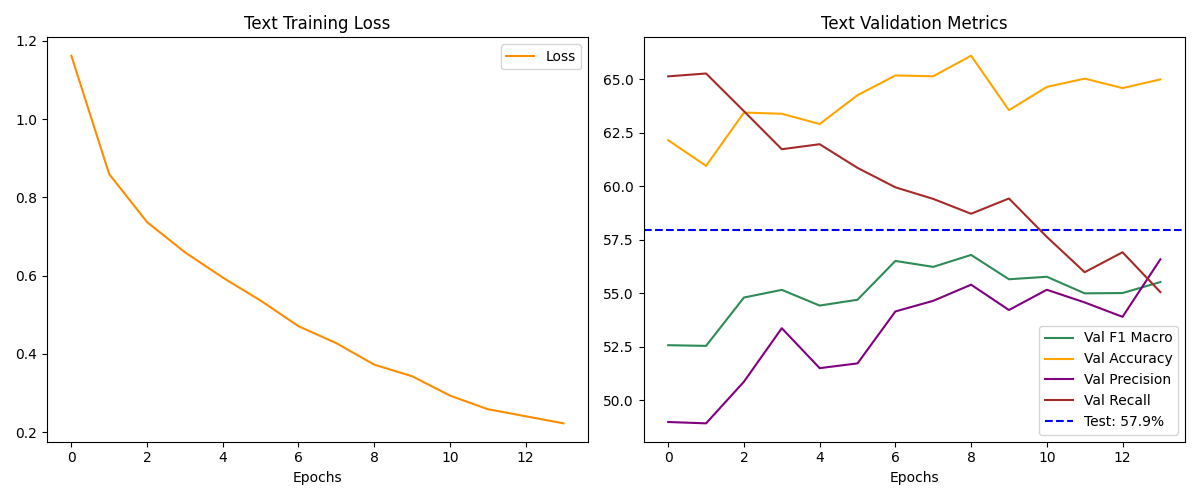
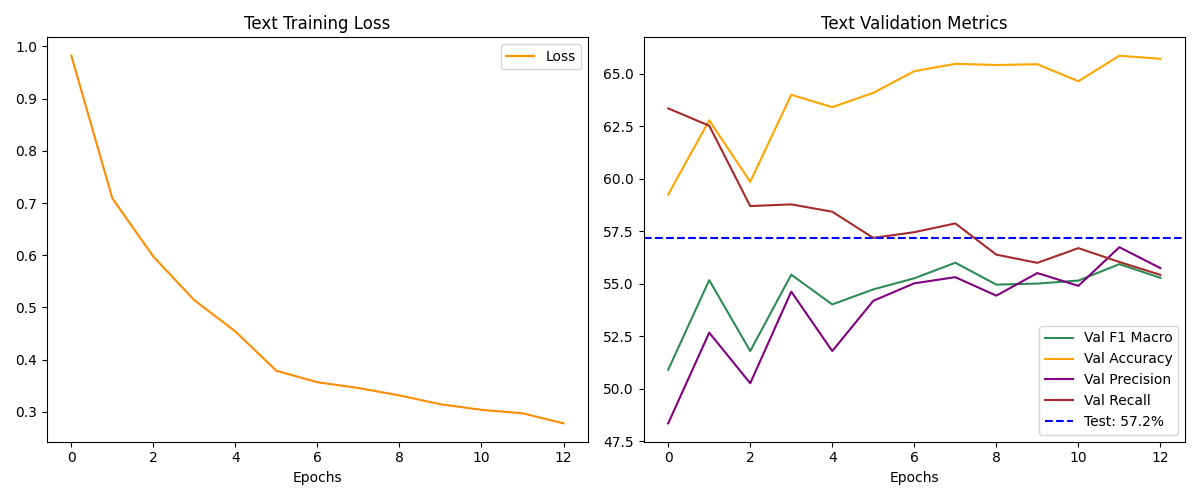
Final Text Model

diff --git a/src/model_trainers/final_train_text.py b/src/model_trainers/final_train_text.py
@@ -3,7 +3,6 @@ import torch.nn as nn
 import torch.optim as optim
 from torch.amp.autocast_mode import autocast
 from torch.amp.grad_scaler import GradScaler
-from transformers import get_linear_schedule_with_warmup
 from sklearn.metrics import f1_score, accuracy_score, precision_score, recall_score
 import json
 import sys
@@ -59,7 +58,7 @@ def train_final():
         num_classes=7, 
         hidden_dim=int(best_params['best_hidden_units']), 
         dropout=best_params['best_dropout'], 
-        pooling_mode=best_params['best_pooling_mode']
+        pooling_mode="mean"
     ).to(DEVICE)
 
     # Freeze RoBERTa initially
@@ -71,25 +70,22 @@ def train_final():
         param.requires_grad = True
 
     lr = 10 ** best_params['best_learning_rate']
+    if best_params['best_learning_rate_roberta'] is not None:
+        lr_r = 10 ** best_params['best_learning_rate_roberta']
+    else:
+        lr_r = lr
     optimizer = optim.AdamW([
         {'params': model.lstm.parameters(), 'lr': lr},
         {'params': model.classifier.parameters(), 'lr': lr},
-        {'params': model.roberta.encoder.layer[10:12].parameters(), 'lr': lr},
-        {'params': model.roberta.pooler.parameters(), 'lr': lr},
-        
-        # Earlier RoBERTa Layers (We give them a smaller LR since they were not "seen" by the APSO and to prevent catastrophic forgetting)
-        {'params': model.roberta.encoder.layer[6:10].parameters(), 'lr': lr * 0.5},
-        {'params': model.roberta.encoder.layer[0:6].parameters(), 'lr': lr * 0.1},
-        {'params': model.roberta.embeddings.parameters(), 'lr': lr * 0.1},
+        {'params': model.roberta.encoder.layer[10:12].parameters(), 'lr': lr_r},
+        {'params': model.roberta.pooler.parameters(), 'lr': lr_r},
     ], weight_decay=0.01)
 
     criterion = nn.CrossEntropyLoss()
 
     epochs = 15
     early_stop_patience = 5
-    UNFREEZE_EPOCH = 5
-    UNFREEZE_EPOCH_2 = 10
-
+    FREEZE_EPOCH = 5  # Number of epochs before freezing RoBERTa again after initial unfreezing for fine-tuning
     plateau_scheduler = optim.lr_scheduler.ReduceLROnPlateau(optimizer, 'max', patience=3, factor=0.5)
     scaler = GradScaler('cuda')
 
@@ -99,21 +95,13 @@ def train_final():
 
     for epoch in range(epochs):
 
-        # Unfreeze RoBERTa after warmup epochs
-        if epoch == UNFREEZE_EPOCH:
-            print("Unfreezing RoBERTa for more in depth fine-tuning...")
-            for param in model.roberta.encoder.layer[6:10].parameters():
-                param.requires_grad = True
-                plateau_scheduler = optim.lr_scheduler.ReduceLROnPlateau(optimizer, 'max', patience=3, factor=0.5)
-        elif epoch == UNFREEZE_EPOCH_2:
-            print("Unfreezing all RoBERTa layers for final fine-tuning...")
-            for param in model.roberta.encoder.layer[0:6].parameters():
-                param.requires_grad = True
-                plateau_scheduler = optim.lr_scheduler.ReduceLROnPlateau(optimizer, 'max', patience=3, factor=0.5)
-
         model.train()
         train_loss = 0.0
-        
+        if epoch == FREEZE_EPOCH:
+            print(f"\n--- Freezing RoBERTa after {FREEZE_EPOCH} epochs ---")
+            for param in model.roberta.parameters():
+                param.requires_grad = False
+
         loop = tqdm(train_loader, desc=f"Epoch {epoch+1}/{epochs}", leave=False)
         for batch in loop:
             ids    = batch['input_ids'].to(DEVICE)

diff --git a/src/inference/inference_text.py b/src/inference/inference_text.py
@@ -20,7 +20,7 @@ logging.set_verbosity_error()
 def run_text_inference():
     # 2. LOAD SAVED MODEL & CONFIG
     # Note: We load the .pth we saved in train_final, which contains the config
-    checkpoint_path = MODELS_DIR / "text_expert_best.pth"
+    checkpoint_path = MODELS_DIR / "final_text_expert_best_2.pth"
     
     if not checkpoint_path.exists():
         print(f"Error: {checkpoint_path} not found. Please train the model first!")
@@ -29,7 +29,7 @@ def run_text_inference():
     checkpoint = torch.load(checkpoint_path, map_location=DEVICE)
     best_params = checkpoint['config']
     
-    # Initialize Model with the EXACT same params used in training
+    # Initialize Model
     model = RobertaBiLSTM(
         num_classes=7,
         hidden_dim=int(best_params['best_hidden_units']),

diff --git a/src/optimization/final_text_apso.py b/src/optimization/final_text_apso.py
@@ -129,7 +129,7 @@ def evaluate_particle(params, train_loader, valid_loader):
     # Clear VRAM for the next particle
     del model, optimizer, scaler
     torch.cuda.empty_cache()
-    sleep(2)
+    sleep(5)  # Small delay to ensure VRAM is cleared and let temperature stabilize
 
     return best_f1
 
@@ -172,7 +172,7 @@ if __name__ == "__main__":
         "best_f1_macro":      float(best_score)
     }
 
-    with open(CHECKPOINTS_DIR / "final_text_apso_results.json", "w") as f:
+    with open(CHECKPOINTS_DIR / "final_text_apso_results_2.json", "w") as f:
         json.dump(results, f, indent=4)
 
     print(f"\nOptimization Complete!")

diff --git a/src/model_eval/eval_text.py b/src/model_eval/eval_text.py
@@ -38,7 +38,7 @@ def evaluate_text_expert():
         num_classes=7,
         hidden_dim=int(best_params['best_hidden_units']),
         dropout=best_params['best_dropout'],
-        pooling_mode=best_params['best_pooling_mode']
+        pooling_mode="max"
     ).to(DEVICE)
     
     model.load_state_dict(checkpoint['state_dict'])
